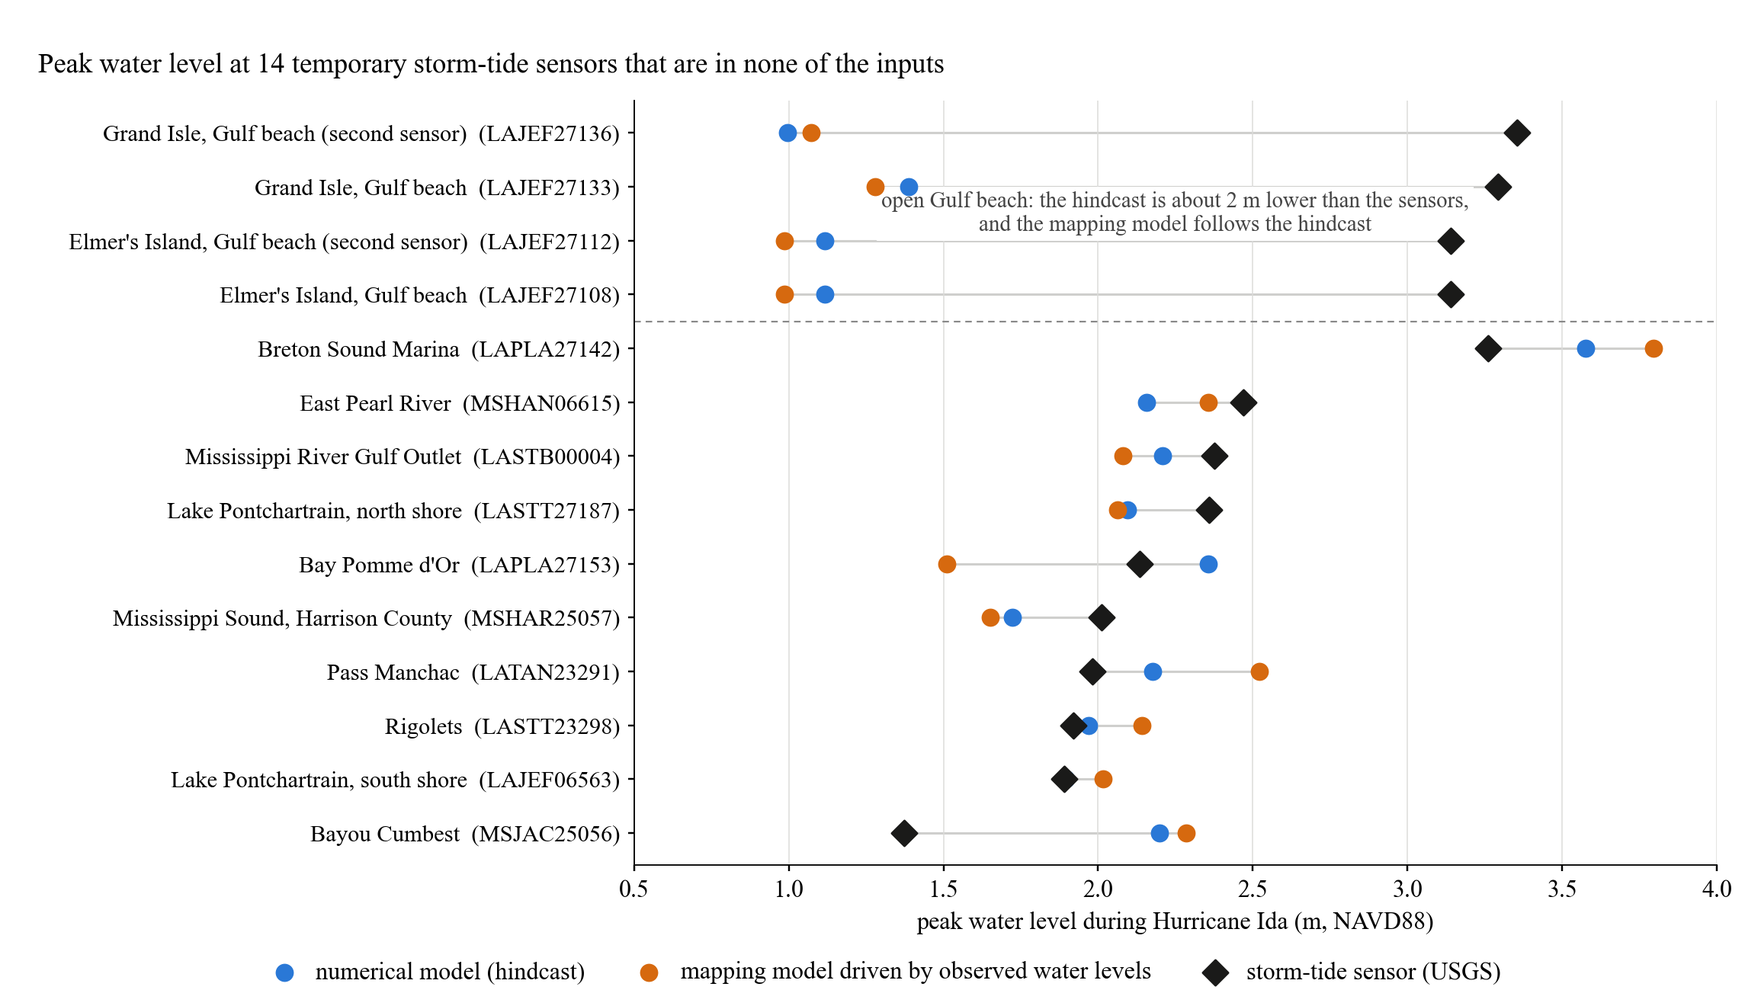
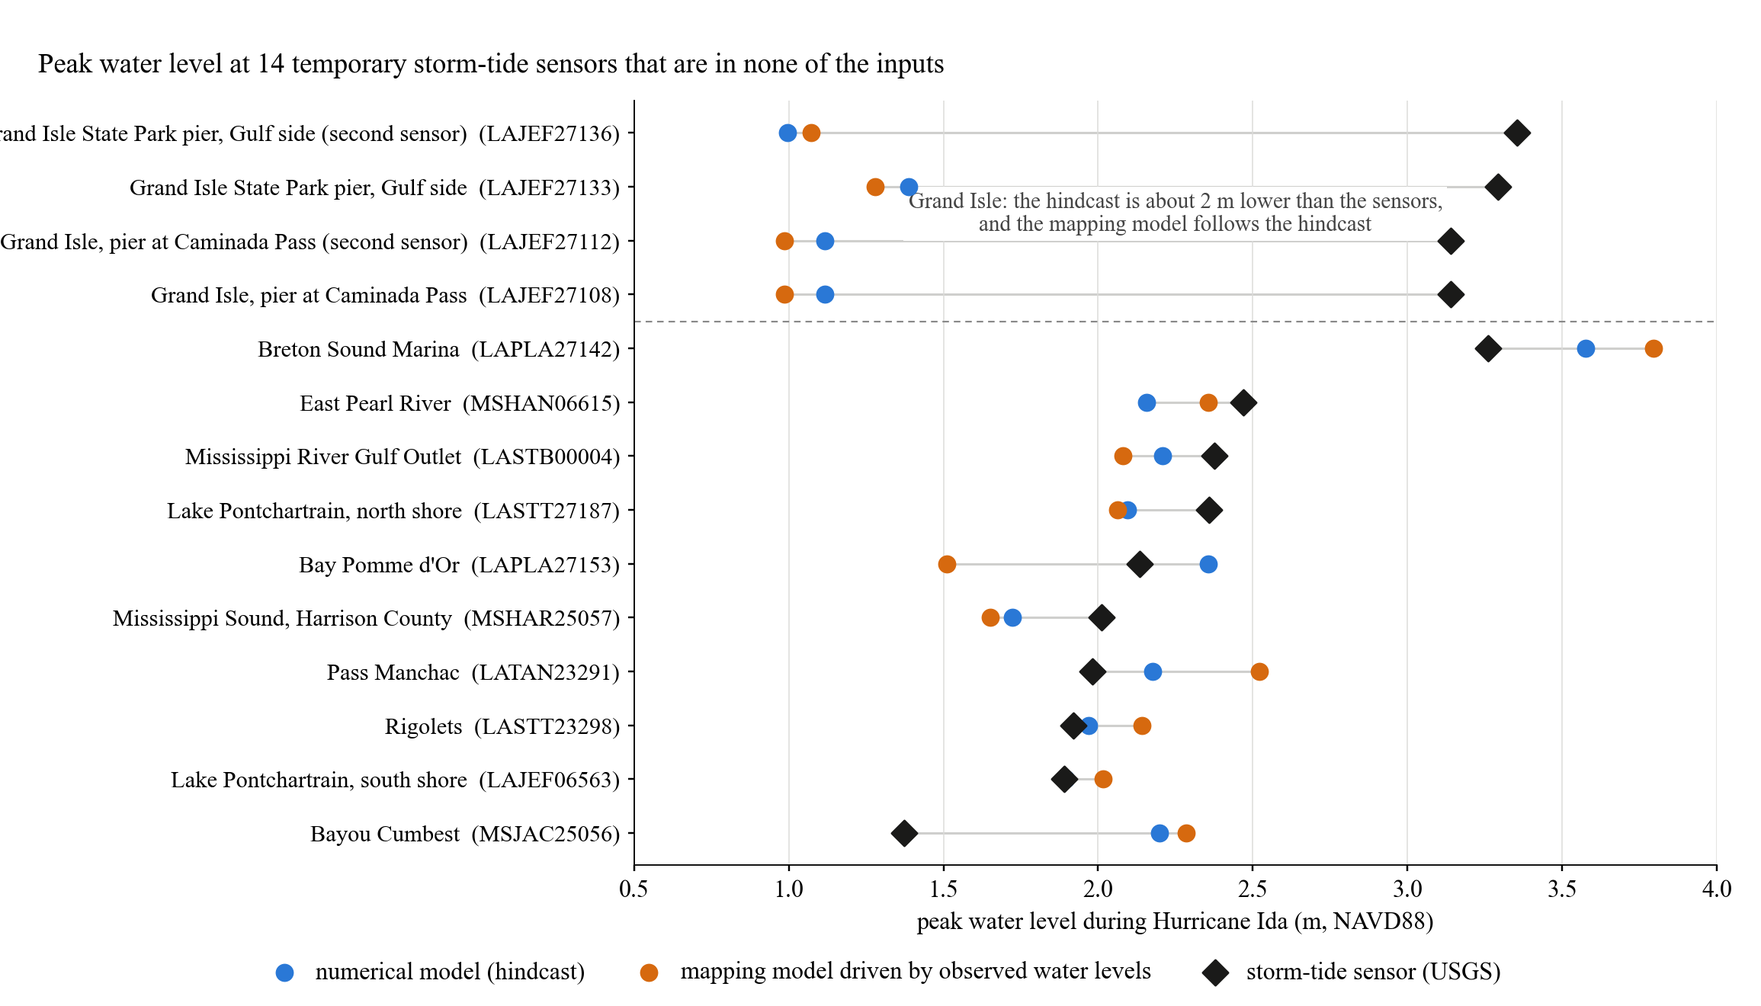
flood map, storm-tide sensors at Grand Isle: correction of the site labels (two sensors stand on the State Park fishing pier on the Gulf side, two on a pier by Bridgeside Marina at Caminada Pass; not Elmer's Island) and of the explanation. The regular gauges also show the hindcast low at the peak he

Changed region(s): [[0.0, 0.1242, 0.2494, 0.2485], [0.4987, 0.1864, 0.8416, 0.2174], [0.0935, 0.2795, 0.2805, 0.3106]]

diff --git a/scripts/p2m/storm_tide_fig.py b/scripts/p2m/storm_tide_fig.py
@@ -3,9 +3,12 @@
 The peaks of storm_tide_check.py are on the level of the numerical model; the sensors are in NAVD88. One offset is used for
 all sites: the median of (numerical model minus observed, hours before the storm) over the NOAA tide gauges among the
 control points, which have a surveyed NAVD88 datum and stand in open water. The model and mapping peaks are moved to NAVD88
-with it. (The offset of the nearest control point was tried first; at river gauges it contains local misfits of the model.) Sites on the open Gulf beach are kept apart: the hindcast is about
-2 m lower than the sensors there (the NOAA gauge in the pass behind the island read about 1.7 m less than the beach sensors,
-so the difference is real; wave setup at the beach is a likely reason, not established here).
+with it. (The offset of the nearest control point was tried first; at river gauges it contains local misfits of the model.) The four sensors at Grand Isle are kept apart: the hindcast is
+about 2 m lower than the sensors there. Two stand on the fishing pier of the State Park on the Gulf side, two on a pier by
+Bridgeside Marina at Caminada Pass (the west end of the island). The regular gauges agree that the hindcast is low here:
+NOAA Grand Isle on the bay side peaked at 1.65 m above MSL (6-minute data) against 0.82 m in the hindcast, and USGS Caminada
+Pass at 2.36 m NAVD88 (hourly) against 0.82 m, three hours after the hindcast peak. The Gulf side stood about 1.6 m higher
+than the bay side; why the hindcast shows neither is not established here.
 Input : deliverables/35_floodmap/ida_storm_tide_check.csv, observed_inputs_stations.csv, controls_used_39_points.csv
 Output: deliverables/35_floodmap/ida_storm_tide_compare.csv, ida_storm_tide_summary.txt, ida_storm_tide_peaks.png
 Usage : python storm_tide_fig.py
@@ -23,9 +26,9 @@ import pandas as pd
 D = Path(__file__).resolve().parents[2] / "deliverables" / "35_floodmap"
 plt.rcParams.update({"font.family": "Times New Roman", "font.size": 10.5, "axes.linewidth": 0.6})
 INK, MODEL, MAP = "#1a1a19", "#2a78d6", "#d6690f"
-BEACH = {"LAJEF27108", "LAJEF27112", "LAJEF27133", "LAJEF27136"}       # Gulf side of Grand Isle and Elmer's Island
-PLACE = {"LAJEF06563": "Lake Pontchartrain, south shore", "LAJEF27108": "Elmer's Island, Gulf beach", "LAJEF27112": "Elmer's Island, Gulf beach (second sensor)", "LAJEF27133": "Grand Isle, Gulf beach",
-         "LAJEF27136": "Grand Isle, Gulf beach (second sensor)", "LAPLA27142": "Breton Sound Marina", "LAPLA27153": "Bay Pomme d'Or", "LASTB00004": "Mississippi River Gulf Outlet",
+BEACH = {"LAJEF27108", "LAJEF27112", "LAJEF27133", "LAJEF27136"}       # Grand Isle: State Park fishing pier (Gulf side) and a pier by Bridgeside Marina (Caminada Pass)
+PLACE = {"LAJEF06563": "Lake Pontchartrain, south shore", "LAJEF27108": "Grand Isle, pier at Caminada Pass", "LAJEF27112": "Grand Isle, pier at Caminada Pass (second sensor)", "LAJEF27133": "Grand Isle State Park pier, Gulf side",
+         "LAJEF27136": "Grand Isle State Park pier, Gulf side (second sensor)", "LAPLA27142": "Breton Sound Marina", "LAPLA27153": "Bay Pomme d'Or", "LASTB00004": "Mississippi River Gulf Outlet",
          "LASTT23298": "Rigolets", "LASTT27187": "Lake Pontchartrain, north shore", "LATAN23291": "Pass Manchac", "MSHAN06615": "East Pearl River", "MSHAR25057": "Mississippi Sound, Harrison County",
          "MSJAC25056": "Bayou Cumbest"}
 
@@ -37,13 +40,13 @@ def main() -> None:
     off = float(c.offset_m.median()); print(f"offset: median of {len(c)} NOAA tide gauges {off:+.3f} m (from {c.offset_m.min():+.2f} to {c.offset_m.max():+.2f} m)")
     rows = []
     for r in s.itertuples():
-        rows.append({"site_number": r.site_number, "place": PLACE.get(r.site_number, r.waterbody), "latitude_dd": r.latitude_dd, "longitude_dd": r.longitude_dd, "open_gulf_beach": r.site_number in BEACH,
+        rows.append({"site_number": r.site_number, "place": PLACE.get(r.site_number, r.waterbody), "latitude_dd": r.latitude_dd, "longitude_dd": r.longitude_dd, "grand_isle": r.site_number in BEACH,
                      "sensor_peak_m": r.peak_m, "offset_m": off,
                      "hindcast_peak_m": r.hindcast_peak_m - off, "mapping_model_inputs_peak_m": r.mapping_model_inputs_peak_m - off, "mapping_observed_inputs_peak_m": r.mapping_observed_inputs_peak_m - off,
                      "hindcast_peak_as_archived_m": r.hindcast_peak_m})
-    t = pd.DataFrame(rows).sort_values(["open_gulf_beach", "sensor_peak_m"], ascending=[True, True]).reset_index(drop=True); t.round(3).to_csv(D / "ida_storm_tide_compare.csv", index=False)
+    t = pd.DataFrame(rows).sort_values(["grand_isle", "sensor_peak_m"], ascending=[True, True]).reset_index(drop=True); t.round(3).to_csv(D / "ida_storm_tide_compare.csv", index=False)
     lines = []
-    for lab, x in (("sheltered sites (bays, lakes, passes, rivers)", t[~t.open_gulf_beach]), ("open Gulf beach", t[t.open_gulf_beach])):
+    for lab, x in (("sites away from Grand Isle (bays, lakes, passes, rivers)", t[~t.grand_isle]), ("Grand Isle (Gulf side and Caminada Pass)", t[t.grand_isle])):
         f = lambda col: f"{(x[col] - x.sensor_peak_m).mean():+.2f} / {np.sqrt(((x[col] - x.sensor_peak_m) ** 2).mean()):.2f}"
         lines.append(f"{lab}: {len(x)} sensors, measured peak {x.sensor_peak_m.min():.2f} to {x.sensor_peak_m.max():.2f} m NAVD88. Error of the peak, mean / RMS (m): hindcast {f('hindcast_peak_m')}, "
                      f"mapping from the model's own series {f('mapping_model_inputs_peak_m')}, mapping from observed water levels {f('mapping_observed_inputs_peak_m')}; "
@@ -59,8 +62,8 @@ def main() -> None:
     ax.scatter(t.mapping_observed_inputs_peak_m, y, s=46, color=MAP, zorder=4, label="mapping model driven by observed water levels")
     ax.scatter(t.sensor_peak_m, y, s=58, color=INK, marker="D", zorder=5, label="storm-tide sensor (USGS)")
     ax.set_yticks(y); ax.set_yticklabels([f"{p}  ({n})" for p, n in zip(t.place, t.site_number)], fontsize=10)
-    nb = int((~t.open_gulf_beach).sum()); ax.axhline(nb - 0.5, color="#888", lw=0.7, ls=(0, (4, 3)))
-    ax.text(2.25, nb + 1.5, "open Gulf beach: the hindcast is about 2 m lower than the sensors,\nand the mapping model follows the hindcast", ha="center", va="center", fontsize=9.5, color="#444",
+    nb = int((~t.grand_isle).sum()); ax.axhline(nb - 0.5, color="#888", lw=0.7, ls=(0, (4, 3)))
+    ax.text(2.25, nb + 1.5, "Grand Isle: the hindcast is about 2 m lower than the sensors,\nand the mapping model follows the hindcast", ha="center", va="center", fontsize=9.5, color="#444",
             bbox=dict(facecolor="white", edgecolor="none", pad=2.0), zorder=2)
     ax.set_xlabel("peak water level during Hurricane Ida (m, NAVD88)"); ax.set_xlim(0.5, 4.0); ax.set_ylim(-0.6, len(t) - 0.4); ax.grid(axis="x", color="#dcdcda", lw=0.5)
     for sp in ("top", "right"):

diff --git a/scripts/report/slides_floodmap.py b/scripts/report/slides_floodmap.py
@@ -52,7 +52,7 @@ def main() -> None:
     st = pd.read_csv(D / "observed_inputs_stations.csv", dtype={"station_id": str})
     lo, ck = st[st.group.str.startswith("control")], st[st.group.str.startswith("check")]
     cu = pd.read_csv(D / "controls_used_39_points.csv"); n_cp = int(cu.used.sum())
-    tide = pd.read_csv(D / "ida_storm_tide_compare.csv"); sh, be = tide[~tide.open_gulf_beach], tide[tide.open_gulf_beach]
+    tide = pd.read_csv(D / "ida_storm_tide_compare.csv"); sh, be = tide[~tide.grand_isle], tide[tide.grand_isle]
     err = lambda x, c: (float((x[c] - x.sensor_peak_m).mean()), float(np.sqrt(((x[c] - x.sensor_peak_m) ** 2).mean())))
     cell = json.loads((D / "cell_example_manchac.json").read_text(encoding="utf-8"))
     km = lambda v: f"{v:,.0f}"
@@ -213,11 +213,12 @@ def main() -> None:
     text(sl, 8.8, 1.0, 4.2, 6.2, [
         "USGS set up temporary sensors along the coast before landfall and recorded the peak (NAVD88). They are not in our gauge data, so nothing in the mapping has seen them.",
         "",
-        f"Sheltered sites ({len(sh)}; bays, lakes, passes): the mapping driven by observations has a mean error of {om:+.2f} m and an RMS of {orr:.2f} m. The hindcast: {hm:+.2f} / {hr:.2f} m. "
+        f"Away from Grand Isle ({len(sh)}; bays, lakes, passes): the mapping driven by observations has a mean error of {om:+.2f} m and an RMS of {orr:.2f} m. The hindcast: {hm:+.2f} / {hr:.2f} m. "
         f"Measured peaks: {sh.sensor_peak_m.min():.1f} to {sh.sensor_peak_m.max():.1f} m.",
         "",
-        f"Open Gulf beach ({len(be)}; Grand Isle, Elmer's Island): the hindcast is {-bm:.2f} m lower than the sensors, and the mapping follows it ({-bo:.2f} m lower). "
-        "This is a limit of the numerical model, not of the mapping (wave setup on the beach is a likely reason; not checked).",
+        f"Grand Isle ({len(be)}; State Park pier on the Gulf side, pier at Caminada Pass): the hindcast is {-bm:.2f} m lower than the sensors, and the mapping follows it "
+        f"({-bo:.2f} m lower). The regular gauges agree: at the peak the hindcast is 0.45 m low at NOAA Grand Isle (bay side) and 0.9 m low at USGS Caminada Pass, after the offset. "
+        "A limit of the hindcast, not of the mapping.",
     ], size=13)
     text(sl, 0.5, 6.15, 8.0, 1.1, [
         f"Model and mapping are moved to NAVD88 with one offset, {-float(tide.offset_m.iloc[0]):.2f} m: what the model is lower than 9 NOAA tide gauges before the storm.",
@@ -232,12 +233,12 @@ def main() -> None:
         "",
         "2.  They work with real water levels: the map keeps its shape, and at gauges they have not seen they are as close as the hindcast (test 2).",
         "",
-        "3.  At independent sensors in sheltered water the peak has the right size and no bias (test 3).",
+        "3.  At independent sensors away from Grand Isle the peak has the right size and no bias (test 3).",
     ], size=BODY)
     text(sl, 0.5, 4.7, 6.0, 2.4, [
         "-  Too shallow at the deepest places.",
         "-  Rain flooding in the northern valleys is missing.",
-        "-  Open Gulf beach 2 m too low (from the numerical model).",
+        "-  Grand Isle: the peak 0.5 to 2 m too low (from the hindcast).",
         "-  West of 92.5 W is left out (bathymetry).",
     ], size=BODY)
     text(sl, 7.0, 1.5, 5.9, 5.7, [

diff --git a/deliverables/README.md b/deliverables/README.md
@@ -39,6 +39,6 @@
 | `32_partner_behaviour.md` + `.csv` | 按实测有没有潮和上游方向选伙伴站（`30` 的规则），伙伴站通道按缺测训练，5 个种子取平均：6 小时 RMSE 8.42 → 8.03 cm（−4.6%），变化量最大的 1% 52.7 → 51.4 cm，飓风期间 28.7 → 26.0 cm，潮位站、河口、湖泊约 −11%，河流 −3.1%，城市溪流 −4.1%；差 0.5 cm 以上的站 119 个变好、3 个变差，明显变差的 7 个。比按河网那一轮（8.07 cm）只好 0.04 cm，在种子波动之内；没有伙伴的站从 86 个增加到 157 个而没有损失。用验证年挑出变差的站再去掉伙伴这一步检验后没有做（挑出的 17 个站测试期平均 0.0%）。实际运行的模型没有更换 |
 | `33_partner_live_test.md` + `33_partner_live_test/` | 伙伴站输入接进实时预报脚本，用实时数据接口跑 2026-11-15 00 UTC 到 11-17 06 UTC 的 10 个起报时刻（都已有 6 小时实况），和实际运行的模型读同一份水位和流量、在同一批预报上比：418 个站 4,162 个预报，6 小时 RMSE 8.45 → 8.18 cm（−3.2%），有潮的站 7.05 → 6.42 cm；USGS 最新 1 小时当作没到时 8.78 → 8.52 cm。数据卫生逐项检查：两个模型输入相同、没有晚于起报时刻的输入、实时脚本和训练代码填缺测的差别对精度没有影响（测试期 8.03 对 8.03 cm）。事后补跑，只有两天半，不是独立的精度证据；实际运行的模型没有更换 |
 | `34_since_meeting.pptx` | 组会（2026-11-13）之后的工作单独做成一份幻灯片，从组会结束时的模型讲起：怎么比较版本、剩下的误差在哪（降雨预报）、伙伴站（想法、规则、测试期结果、晚到、站点类型）、接进预报脚本后在实时数据上的测试（结果、12 日那次检查的 8 个站两个模型对照、特意挑的两个反例、提前量曲线的锯齿和合并预报的测试）、现在的状态。由 `scripts/report/slides_since_meeting.py` 生成；手排的 `17_versions/version_comparison.pptx` 不受影响 |
-| `35_floodmap.md` + `35_floodmap/` | 淹没图初步（按 Bao et al. 2025 的 Prediction-to-Map 思路）：用 Louisiana 的 Ida 耦合模式结果（12 组实验的质量控制归档）训练映射模型，60 个控制点的水位 → 每个格点的水深。Ida 后报在 195 个站里能复现 71 个（相关 0.8 以上），其中 60 个有实时预报，用作控制点。留出 Ida 后报做检验（92.5°W 以东）：淹到的陆地上全时段 RMSE 0.06 m，峰值 RMSE 0.24 m、平均偏浅 0.15 m，淹没范围 CSI 0.80（0.3 m）到 0.47（2 m）。留出的是同一场风暴的另一组实验，输入是模式自己的序列，还不是对另一场风暴或对观测的检验 **第二轮（11 月 19 日）：用 Ida 期间的实测水位驱动。** 控制点加一个条件（模式的涨落幅度在实测的 0.5–2 倍之间），60 个剩 39 个，用模式序列的检验结果不变。在没给它看的站上（39 个轮流留出、11 个从来不是输入），映射和模式后报一样接近实测（每站 RMSE 中位数 0.11 m，模式后报 0.13 和 0.15 m）。整张图和模式后报接近（CSI 0.79 / 0.77 / 0.64，对应 0.3 / 1 / 2 m）。陆地上的水深没有真值；还是 Ida 一场风暴，输入是实测不是预报。 **第三轮（11 月 19 日）：和 USGS 临时布设的 14 个风暴潮传感器比峰值**（和输入完全无关）。有遮蔽的 10 个点：实测驱动的映射平均误差 +0.06 m、均方根 0.47 m，模式后报 +0.06 / 0.34 m。朝外海的海滩 4 个点：模式后报比传感器低 2 m，映射跟着低。 |
+| `35_floodmap.md` + `35_floodmap/` | 淹没图初步（按 Bao et al. 2025 的 Prediction-to-Map 思路）：用 Louisiana 的 Ida 耦合模式结果（12 组实验的质量控制归档）训练映射模型，60 个控制点的水位 → 每个格点的水深。Ida 后报在 195 个站里能复现 71 个（相关 0.8 以上），其中 60 个有实时预报，用作控制点。留出 Ida 后报做检验（92.5°W 以东）：淹到的陆地上全时段 RMSE 0.06 m，峰值 RMSE 0.24 m、平均偏浅 0.15 m，淹没范围 CSI 0.80（0.3 m）到 0.47（2 m）。留出的是同一场风暴的另一组实验，输入是模式自己的序列，还不是对另一场风暴或对观测的检验 **第二轮（11 月 19 日）：用 Ida 期间的实测水位驱动。** 控制点加一个条件（模式的涨落幅度在实测的 0.5–2 倍之间），60 个剩 39 个，用模式序列的检验结果不变。在没给它看的站上（39 个轮流留出、11 个从来不是输入），映射和模式后报一样接近实测（每站 RMSE 中位数 0.11 m，模式后报 0.13 和 0.15 m）。整张图和模式后报接近（CSI 0.79 / 0.77 / 0.64，对应 0.3 / 1 / 2 m）。陆地上的水深没有真值；还是 Ida 一场风暴，输入是实测不是预报。 **第三轮（11 月 19 日）：和 USGS 临时布设的 14 个风暴潮传感器比峰值**（和输入完全无关）。Grand Isle 以外的 10 个点：实测驱动的映射平均误差 +0.06 m、均方根 0.47 m，模式后报 +0.06 / 0.34 m。Grand Isle 的 4 个点：模式后报比传感器低 2 m，映射跟着低；常规水位站（NOAA Grand Isle、USGS Caminada Pass）上模式后报的峰值也低 0.45–0.9 m。 |
 | `36_floodmap_explained.pptx` | 单独讲淹没图的幻灯片，14 页，英文，供慢慢看：问题和流程图、映射模型是什么（Pass Manchac 一个格点的公式和过程线）、12 组训练数据、39 个控制点的三个条件、三次检验（留出后报；实测水位驱动；14 个独立的风暴潮传感器）、能说什么不能说什么、上线前还差什么、名词表。脚本 `scripts/report/slides_floodmap.py`，示意图 `scripts/report/floodmap_explain_figs.py`，格点例子 `scripts/p2m/cell_example.py` |
 | `03_plan_wind_discharge.md` | 只用观测做到什么程度之后再加风场和流量数据的计划 |

diff --git a/deliverables/35_floodmap.md b/deliverables/35_floodmap.md
@@ -173,20 +173,32 @@ sv6 上 2026-11-11 做的质量控制归档（`/home/ywan245/result_analysis/zen
 
 | | 传感器数 | 实测峰值（m） | 模式后报：平均误差 / 均方根（m） | 实测驱动的映射 | 用模式序列的映射 |
 |---|---|---|---|---|---|
-| 有遮蔽的地方（海湾、湖、水道、河口） | 10 | 1.37–3.26 | +0.06 / 0.34 | +0.06 / 0.47 | −0.12 / 0.39 |
-| 朝外海的海滩（Grand Isle、Elmer's Island） | 4 | 3.14–3.35 | −2.08 / 2.08 | −2.15 / 2.15 | −2.39 / 2.39 |
+| Grand Isle 以外（海湾、湖、水道、河口） | 10 | 1.37–3.26 | +0.06 / 0.34 | +0.06 / 0.47 | −0.12 / 0.39 |
+| Grand Isle（州立公园栈桥，朝墨西哥湾一侧；Caminada Pass 边的栈桥） | 4 | 3.14–3.35 | −2.08 / 2.08 | −2.15 / 2.15 | −2.39 / 2.39 |
 
-- **有遮蔽的 10 个点**：实测驱动的映射平均不偏（+0.06 m），均方根 0.47 m，模式后报 0.34 m。映射比模式后报差一些，但在同一个量级。Breton Sound Marina 那个 3.26 m 的峰（淹到地面以上 2.3 m）映射给 3.80 m、模式 3.58 m；最差的是 Bay Pomme d'Or（映射 1.51 m，实测 2.13 m）和 Bayou Cumbest（映射和模式都是 2.2–2.3 m，实测 1.37 m）。
-- **朝外海的海滩 4 个点**：模式后报只有 1.0–1.4 m，传感器是 3.1–3.4 m，差 2 m。映射是从模式学的，跟着低。岛背后水道里的 NOAA 站（Grand Isle）当时的峰值比海滩上的传感器低约 1.7 m，所以这个差别是真实的，不是传感器的问题。可能的原因是海滩上的波浪增水，这里没有查证。**这是模式后报本身的问题，映射模型解决不了。**
+- **Grand Isle 以外的 10 个点**：实测驱动的映射平均不偏（+0.06 m），均方根 0.47 m，模式后报 0.34 m。映射比模式后报差一些，但在同一个量级。Breton Sound Marina 那个 3.26 m 的峰（淹到地面以上 2.3 m）映射给 3.80 m、模式 3.58 m；最差的是 Bay Pomme d'Or（映射 1.51 m，实测 2.13 m）和 Bayou Cumbest（映射和模式都是 2.2–2.3 m，实测 1.37 m）。
+- **Grand Isle 的 4 个点**：模式后报只有 1.0–1.4 m，传感器是 3.1–3.4 m，差 2 m。映射是从模式学的，跟着低。**这是模式后报本身的问题，映射模型解决不了。**
+  - **更正（2026-11-19）。** 这一条最初写成"朝外海的海滩（Grand Isle、Elmer's Island）"，并把原因猜成海滩上的波浪增水。查了 USGS 的站点说明后：两个传感器在 Grand Isle 州立公园的钓鱼栈桥上（朝墨西哥湾一侧，离 NOAA Grand Isle 站约 700 m），另外两个在岛西端 Bridgeside Marina 旁的栈桥上（Caminada Pass 边），不在 Elmer's Island，也不都在外海海滩。
+  - **常规水位站也说明模式后报在这里偏低，不只是传感器。**
+
+    | | 实测峰值 | 模式后报峰值（原样） | 扣掉平常日子的基准差之后，模式偏低 |
+    |---|---|---|---|
+    | NOAA Grand Isle 8761724（岛背后，海湾一侧） | 1.65 m（MSL，6 分钟数据，29 日 18:42 UTC，无缺测）；小时值 1.58 m | 0.82 m（20 时） | 0.45 m |
+    | USGS Caminada Pass 07380249 | 2.36 m（NAVD88，小时值，17–18 时） | 0.82 m（15 时，早 3 小时；18 时已降到 0.61 m，20 时为 −0.06 m，而实测仍有 1.49 m） | 0.9 m |
+    | 州立公园栈桥的两个传感器（朝墨西哥湾一侧） | 3.29、3.35 m（NAVD88，17:29–17:54 UTC） | 0.61–1.00 m | 约 2 m |
+    | Caminada Pass 边栈桥的两个传感器 | 3.14 m（NAVD88，17–18 时） | 0.73 m | 约 2 m |
+
+  - 所以有两层：一是模式后报在 Grand Isle 一带的峰值整体偏低（常规站上 0.45–0.9 m），Caminada Pass 还早了 3 小时并且退得太快；二是岛朝墨西哥湾一侧实测比海湾一侧高约 1.6 m，模式里两侧差不多。第二层的原因（波浪增水、障壁岛在 100 m 网格上的分辨等）这里没有查证。
+  - 模式作者当时在 Grand Isle 的验证用的是 NOAA 站，相关系数 0.95，说的是涨落的时间和形状；幅度上模式是实测的 0.68 倍（`control_points_check.csv` 的 `best_std_ratio`）。两件事不矛盾。
 - **模式后报原样（不加 0.38 m）和传感器比**：有遮蔽的 10 个点平均低 0.33 m，均方根 0.47 m。也就是说 0.38 m 这个基准差在独立的数据上也成立。
 
-**分量。** 这是到目前为止唯一和模型输入完全无关的检验，而且其中几个点在淹到的陆地上。但只有 14 个点、一场风暴、只有峰值，结论只能说到"量级对、没有系统偏差（外海海滩除外）"。
+**分量。** 这是到目前为止唯一和模型输入完全无关的检验，而且其中几个点在淹到的陆地上。但只有 14 个点、一场风暴、只有峰值，结论只能说到"量级对、没有系统偏差（Grand Isle 除外）"。
 
 **下一步（再更新）。**
 
 1. 平时干的格点换成文章里的模型。
 2. 更多的独立实测：CRMS 的沼泽水位站（沿海几百个，逐小时），可以把上面这种检验从 14 个点扩大到几百个，而且有完整过程线。
-3. 北边降雨造成的淹没、外海海滩偏低：都来自模式或输入本身，要另定办法。
+3. 北边降雨造成的淹没、Grand Isle 一带峰值偏低：都来自模式或输入本身，要另定办法。
 4. 接上 LSTM 的 1–6 小时预报，定输出格式。换一场风暴的检验要等有另一场风暴的模式结果。
 
 ## 文件
